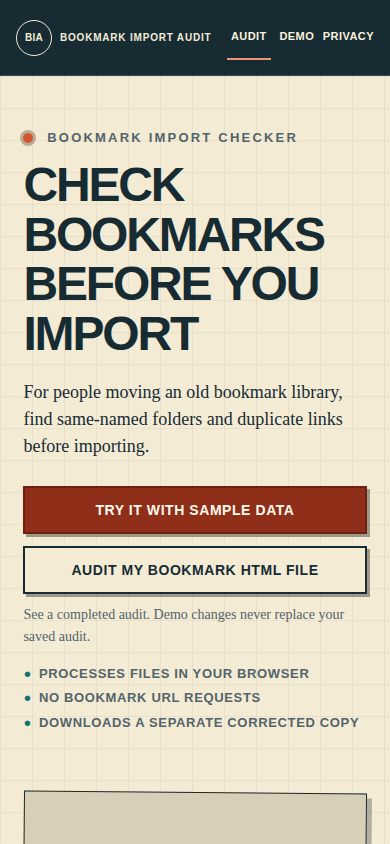
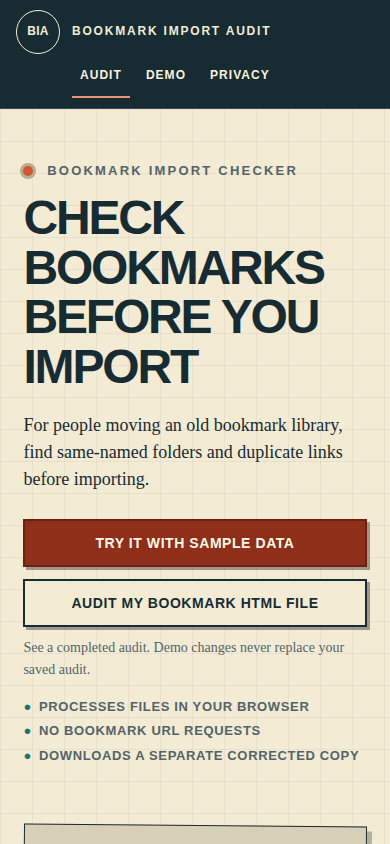
fix: improve mobile header layout

diff --git a/src/styles.css b/src/styles.css
@@ -161,7 +161,7 @@ footer { display: flex; justify-content: space-between; gap: 32px; padding: 24px
 }
 
 @media (max-width: 620px) {
-  body { font-size: 16px; }.site-header { gap: 8px; padding: 10px max(16px, env(safe-area-inset-left)) 10px max(16px, env(safe-area-inset-right)); }.brand { min-width: 0; min-height: 44px; gap: 8px; font-size: 10px; letter-spacing: .08em; white-space: nowrap; }.brand-mark { flex: none; width: 36px; height: 36px; font-size: 10px; }.site-header nav { flex: none; gap: 4px; }.site-header nav a { padding: 0; font-size: 11px; letter-spacing: .04em; }
+  body { font-size: 16px; }.site-header { display: grid; grid-template-columns: 1fr; gap: 0; padding: 10px max(16px, env(safe-area-inset-left)) 10px max(16px, env(safe-area-inset-right)); }.brand { min-height: 44px; }.site-header nav { justify-content: flex-start; gap: 8px; margin-left: 56px; }.site-header nav a { padding: 0 8px; font-size: 12px; }
   .hero { padding-top: 54px; }.hero picture { padding: 5px; box-shadow: 5px 5px 0 rgba(6,22,28,.28); }.hero figure::before { display: none; }
   .trust-list { display: grid; }.file-well { min-height: 276px; }.file-well label { min-width: calc(100% - 36px); }
   .hero-actions { display: grid; }.hero-actions .button { width: 100%; }.demo-banner { align-items: flex-start; flex-direction: column; margin: 12px 16px 0; }.demo-banner span { width: 100%; justify-content: space-between; }
